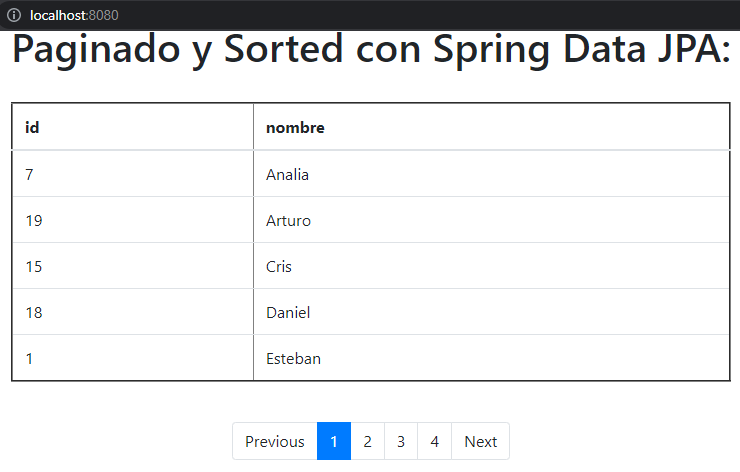
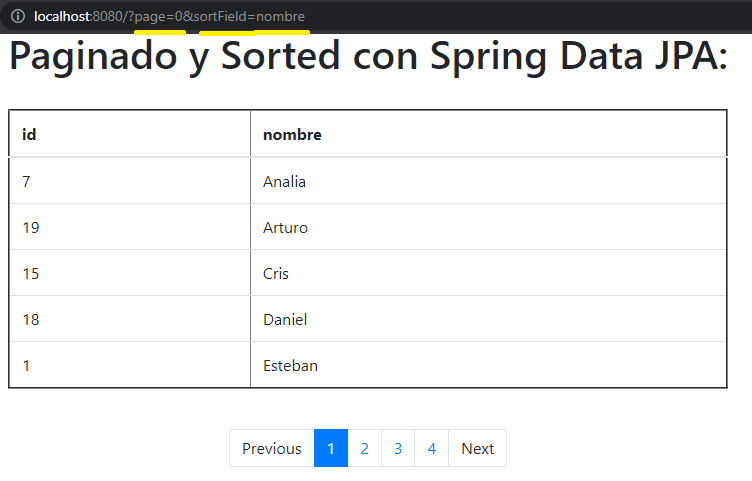
added pagination and sorted via query params

diff --git a/src/main/resources/static/app.js b/src/main/resources/static/app.js
@@ -1,23 +1,32 @@
 var page = null;
+var params = new URLSearchParams(window.location.search);
 
-async function getPageByPageNumber(pageNumber) {
+async function getPageByProps(props) {
+    debugger;
 
-    page = await getPage({page: pageNumber, sortField: 'nombre'});
+    if(typeof props.page === 'undefined' || props.page == null) props.page = 0;
+    if(typeof props.sortField === 'undefined' || props.sortField == null) props.sortField = 'nombre';
+
+    page = await getPage(props);
 
     var personasTable = document.getElementById("personas-table");
     cleanTable(personasTable);
 
     personasTable.appendChild(createTHeadFromObject(page.content[0]));
     personasTable.appendChild(createTBodyFromObjectArray(page.content));
-    setActivePageItem(pageNumber);
+    setActivePageItem(props.page);
 }
 
 function getPreviousPage() {
-    return (page.number - 1) < 0 ? 0 : page.number - 1;
+    var previousPageNumber = page.number - 1;
+    if (previousPageNumber < 0 ) { return; }
+    updateQueryParams(previousPageNumber, params.get('sortField'));
 }
 
 function getNextPage() {
-    return (page.number + 1) < page.totalPages ? page.number + 1 : page.number;
+    var nextPageNumber = page.number + 1;
+    if (nextPageNumber > page.totalPages ) { return; }
+    updateQueryParams(nextPageNumber, params.get('sortField'));
 }
 
 function setActivePageItem(pageNumber) {
@@ -32,4 +41,10 @@ function unSetPreviousActiveItem() {
     pageItemsArray.forEach(pageItem => pageItem.classList.remove("active"))
 }
 
-getPageByPageNumber(0);
+function updateQueryParams(page, sortField) {
+    params.set('page', page == null ? 0 : page);
+    params.set('sortField', sortField == null ? 'nombre' : sortField);
+    window.location.search = params;
+}
+
+getPageByProps({page: +params.get('page'), sortField: params.get('sortField')});

diff --git a/src/main/resources/static/index.html b/src/main/resources/static/index.html
@@ -22,12 +22,12 @@
         <div class="col-md-auto">
             <nav aria-label="Page navigation example">
                 <ul id="page-items" class="pagination">
-                    <li class="page-item"><a class="page-link" onclick="getPageByPageNumber(getPreviousPage())">Previous</a></li>
-                    <li id="item-0" class="page-item"><a class="page-link" onclick="getPageByPageNumber(0)">1</a></li>
-                    <li id="item-1" class="page-item"><a class="page-link" onclick="getPageByPageNumber(1)">2</a></li>
-                    <li id="item-2" class="page-item"><a class="page-link" onclick="getPageByPageNumber(2)">3</a></li>
-                    <li id="item-3" class="page-item"><a class="page-link" onclick="getPageByPageNumber(3)">4</a></li>
-                    <li class="page-item"><a class="page-link" onclick="getPageByPageNumber(getNextPage())">Next</a></li>
+                    <li class="page-item"><a class="page-link" onclick="getPreviousPage()">Previous</a></li>
+                    <li id="item-0" class="page-item"><a class="page-link" href="?page=0&sortField=nombre">1</a></li>
+                    <li id="item-1" class="page-item"><a class="page-link" href="?page=1&sortField=nombre">2</a></li>
+                    <li id="item-2" class="page-item"><a class="page-link" href="?page=2&sortField=nombre">3</a></li>
+                    <li id="item-3" class="page-item"><a class="page-link" href="?page=3&sortField=nombre">4</a></li>
+                    <li class="page-item"><a class="page-link" onclick="getNextPage()">Next</a></li>
                 </ul>
             </nav>
         </div>
